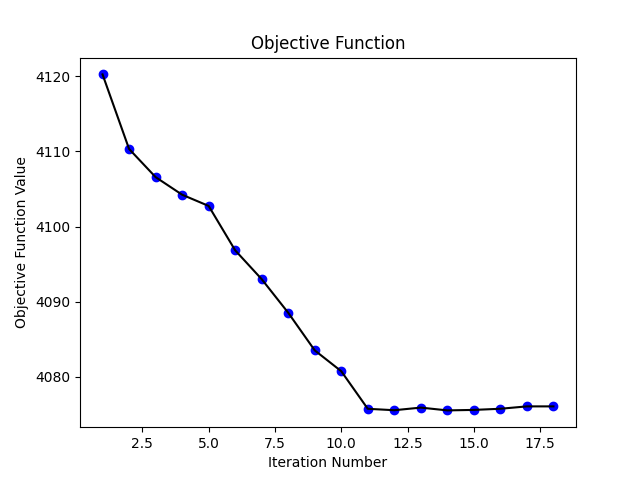
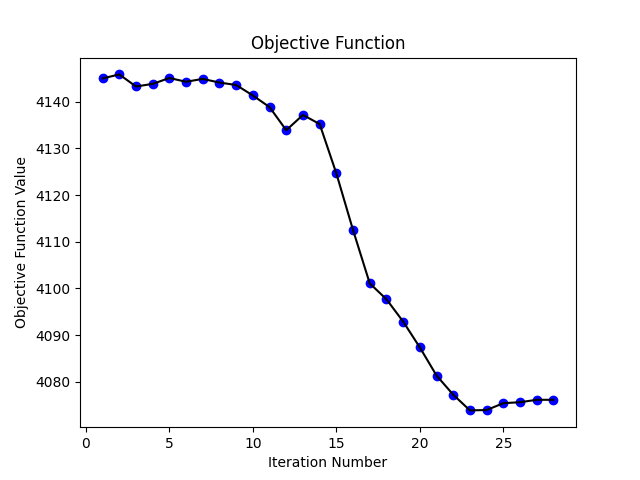
Spectral clustering algorithms

diff --git a/Assignment1/code/Q2.py b/Assignment1/code/Q2.py
@@ -1,13 +1,17 @@
+from sys import implementation
 import pandas as pd
-from utilities.KMeans import KMeans
-
-import matplotlib.pyplot as plt
-import utilities.common as common
 import copy
+
+from utilities.KMeans import KMeans
+import utilities.Centroid_initialization as ce
+import utilities.SpectralClustering as sc
+import matplotlib.pyplot as plt
+import seaborn as sns
+
 
 if __name__ == '__main__':
 
-# ############################ Questsion 2 -> (i) Part #######################################
+    # ############################ Questsion 2 -> (i) Part #######################################
 
     print("---------------------------- Q2 - part (i) Output------------------------")
 
@@ -16,30 +20,41 @@ if __name__ == '__main__':
     # load datasets from files
     dataset = pd.read_csv(dataset_file, sep=',', header=None)
 
-    # # k = 4 and 5-different random initilization    
-    # kmeans1 = KMeans(n_cluster=4)
-    # for i in range(1, 6):
-    #     clone= copy.deepcopy(dataset)
-        
-    #     kmeans1.fit(dataset)
-    #     kmeans1.save_figures('plots/Q2', 4, 'Q1a{}'.format(i))
+    # # k = 4 and 5-different random initilization centroids
+    # number_of_cluster = 4
+    # kmeans1 = KMeans(n_cluster=number_of_cluster)
 
+    # for i in range(1, 6):
+    #     # Get the random centroid points everytime
+    #     initial_centroids = ce.random(dataset, number_of_cluster)
+    #     clone = copy.deepcopy(dataset)
+
+    #     kmeans1.fit(dataset,initial_centroids)
+    #     kmeans1.save_figures('plots/Q2', number_of_cluster, 'Q2a{}'.format(i))
 
 # ############################ Questsion 2 -> (i) Part #######################################
 
-    print("---------------------------- Q2 - part (ii) Output------------------------")
-    #  fixed initialization and K = {2,3,4,5}
-
-    #initialization centroid for cluster
-    centroids=[]
-    centroidk2=[[0, 0],[-5.0 , -5.0]]    
+    # print("---------------------------- Q2 - part (ii) Output------------------------")
     
-    for i in range(2, 3):
-        kmeans1 = KMeans(n_cluster=i)
-        clone= copy.deepcopy(dataset)
-        
-        kmeans1.fit(dataset,centroidk2)
-        kmeans1.save_figures('plots/Q2', 4, 'Q2b{}'.format(i))
+    # #fixed initialization and K = {2,3,4,5}
 
+    # #initialization centroid for cluster
+    # initial_centroids = ce.random(dataset, 2)
+
+    # for i in range(2, 6):
+
+    #     kmeans1 = KMeans(n_cluster=i)
+    #     clone = copy.deepcopy(dataset)
+    #     initial_centroids = ce.add(clone, i)
+
+    #     kmeans1.fit(dataset,initial_centroids)
+    #     kmeans1.save_figures('plots/Q2', 4, 'Q2b{}'.format(i))
 
     print("---------------------------- Processing completed ------------------------")
+
+    data_df = dataset
+    data_df['cluster'] = sc.spectral_clustering(df=data_df, n_neighbors=8, n_clusters=3)
+
+    fig, ax = plt.subplots()
+    sns.scatterplot( data=data_df, hue='cluster', ax=ax)
+    ax.set(title='Spectral Clustering')

diff --git a/Assignment1/code/utilities/SpectralClustering.py b/Assignment1/code/utilities/SpectralClustering.py
@@ -1,0 +1,58 @@
+
+
+import imp
+from ipaddress import ip_address
+from sklearn.neighbors import kneighbors_graph
+from scipy import sparse
+import numpy as np
+from numpy import linalg
+import pandas as pd
+
+from sklearn.cluster import KMeans
+
+def generate_graph_laplacian(df, nn):
+    """Generate graph Laplacian from data."""
+    # Adjacency Matrix.
+    connectivity = kneighbors_graph(X=df, n_neighbors=nn, mode='connectivity')
+    adjacency_matrix_s = (1/2)*(connectivity + connectivity.T)
+    # Graph Laplacian.
+    graph_laplacian_s = sparse.csgraph.laplacian(csgraph=adjacency_matrix_s, normed=False)
+    graph_laplacian = graph_laplacian_s.toarray()
+    return graph_laplacian 
+
+# We project onto the real numbers. 
+def compute_spectrum_graph_laplacian(graph_laplacian):
+    """Compute eigenvalues and eigenvectors and project 
+    them onto the real numbers.
+    """
+    eigenvals, eigenvcts = linalg.eig(graph_laplacian)
+    eigenvals = np.real(eigenvals)
+    eigenvcts = np.real(eigenvcts)
+    return eigenvals, eigenvcts
+
+def project_and_transpose(eigenvals, eigenvcts, num_ev):
+    """Select the eigenvectors corresponding to the first 
+    (sorted) num_ev eigenvalues as columns in a data frame.
+    """
+    eigenvals_sorted_indices = np.argsort(eigenvals)
+    indices = eigenvals_sorted_indices[: num_ev]
+
+    proj_df = pd.DataFrame(eigenvcts[:, indices.squeeze()])
+    proj_df.columns = ['v_' + str(c) for c in proj_df.columns]
+    return proj_df
+
+def spectral_clustering(df, n_neighbors, n_clusters):
+    """Spectral Clustering Algorithm."""
+    graph_laplacian = generate_graph_laplacian(df, n_neighbors)
+    eigenvals, eigenvcts = compute_spectrum_graph_laplacian(graph_laplacian)
+    proj_df = project_and_transpose(eigenvals, eigenvcts, n_clusters)
+    cluster = run_k_means(proj_df, proj_df.columns.size)
+    return ['c_' + str(c) for c in cluster]
+
+
+def run_k_means(df, n_clusters):
+    """K-means clustering."""
+    k_means = KMeans(random_state=25, n_clusters=n_clusters) # Need to remove with out functions
+    k_means.fit(df)
+    cluster = k_means.predict(df)
+    return cluster

diff --git a/Assignment1/code/utilities/centroid_initialization.py b/Assignment1/code/utilities/centroid_initialization.py
@@ -1,10 +1,11 @@
 from math import sqrt, floor
 import numpy as np
 
-def random(dataset, k, random_state=42):
+
+def random(dataset, k):
     """
     Create random cluster centroids.
-    
+
     Parameters
     ----------
     dataset : numpy array
@@ -17,13 +18,39 @@ def random(dataset, k, random_state=42):
         Collection of k centroids as a numpy array.
     """
 
-    np.random.seed(random_state)
     centroids = []
     m = np.shape(dataset)[0]
 
     for _ in range(k):
         r = np.random.randint(0, m-1)
-        centroids.append(dataset[r])
+        centroids.append(np.ravel(dataset.iloc[r, :]))
+
+    return np.array(centroids)
+
+
+def add(dataset, k, random_state=42):
+    """
+    Create random cluster centroids.
+
+    Parameters
+    ----------
+    dataset : numpy array
+        The dataset to be used for centroid initialization.
+    k : int
+        The desired number of clusters for which centroids are required.
+    Returns
+    -------
+    centroids : numpy array
+        Collection of k centroids as a numpy array.
+    """
+    np.random.seed(random_state)
+    m = np.shape(dataset)[0]
+
+    centroids = []
+
+    for _ in range(k):
+        r = np.random.randint(0, m-1)
+        centroids.append(np.ravel(dataset.iloc[r, :]))
 
     return np.array(centroids)
 
@@ -47,16 +74,17 @@ def plus_plus(ds, k, random_state=42):
     centroids = [ds[0]]
 
     for _ in range(1, k):
-        dist_sq = np.array([min([np.inner(c-x,c-x) for c in centroids]) for x in ds])
+        dist_sq = np.array([min([np.inner(c-x, c-x)
+                           for c in centroids]) for x in ds])
         probs = dist_sq/dist_sq.sum()
         cumulative_probs = probs.cumsum()
         r = np.random.rand()
-        
+
         for j, p in enumerate(cumulative_probs):
             if r < p:
                 i = j
                 break
-        
+
         centroids.append(ds[i])
 
     return np.array(centroids)

diff --git a/Assignment1/code/utilities/KMeans.py b/Assignment1/code/utilities/KMeans.py
@@ -1,34 +1,21 @@
 import numpy as np
-import random
 import matplotlib.pyplot as plt
 import copy
 import os
-
 
 class KMeans:
     def __init__(self, n_cluster=3, random_state=721):
         self.n_cluster = n_cluster
         self.random_state = random_state
 
-    def fit(self, dataset,initial_centroids=None):
+    def fit(self, dataset,initial_centroids):
         self.X = dataset.iloc[:, [0, 1]]  # not use feature labels
         self.m = self.X.shape[0]  # number of training examples
-        self.n = self.X.shape[1]  # number of features.
-
-        if  isinstance(initial_centroids, type(None)) :
-            initial_centroids = self.initialize_centroids()
+        self.n = self.X.shape[1]  # number of features.    
+        initial_centroids = initial_centroids
         
         self.plot_initial_centroids(initial_centroids)
         self.clustering(initial_centroids)
-
-    def initialize_centroids(self):
-        initial_centroids = []
-        random.seed(self.random_state)
-
-        for i in range(self.n_cluster):
-            initial_centroids.append(np.ravel(self.X.iloc[(random.randint(0, self.m - 1)), :]))
-
-        return np.array(initial_centroids)
 
     def plot_initial_centroids(self, initial_centroids):
 
@@ -71,7 +58,6 @@ class KMeans:
             self.iterating_count += 1
 
         self.plot_objective_function_values()
-
         self.plot_centroids(centroids, clusters)
         #plt.savefig('plots\Q2\A.png', dpi=300)
 
@@ -129,9 +115,8 @@ class KMeans:
         for i in plt.get_fignums():
             plt.figure(i)
             plt.savefig(os.path.join(path, "{}_K{}_{}.png".format(question_number,k,i)), format='png')
-        # close all figure to clear figure numbers
+        # close all figure to clear figure numbers        
         plt.close("all")
-        
-        print("Figures for the dataset saved in {}".format(path))
+        plt.clf()
 
    

diff --git a/Assignment1/code/Q1.py b/Assignment1/code/Q1.py
@@ -1,5 +1,5 @@
 import matplotlib.pyplot as plt
-import utilities.common as common
+import utilities.Common as common
 import utilities.PCA as pca
 
 if __name__ == '__main__':

diff --git a/Assignment1/code/utilities/PCA.py b/Assignment1/code/utilities/PCA.py
@@ -1,4 +1,3 @@
-import imp
 import numpy as np
 import math
 

diff --git a/README.md b/README.md
@@ -7,3 +7,6 @@ https://www.analyticsvidhya.com/blog/2021/05/k-mean-getting-the-optimal-number-o
 array([-4.579 , -4.3675])
 array([-2.6667 ,  0.92364])
 array([ 0.95799, -3.0347 ])
+
+Imporant article to read
+Same as our data : https://www.kdnuggets.com/2020/05/getting-started-spectral-clustering.html
